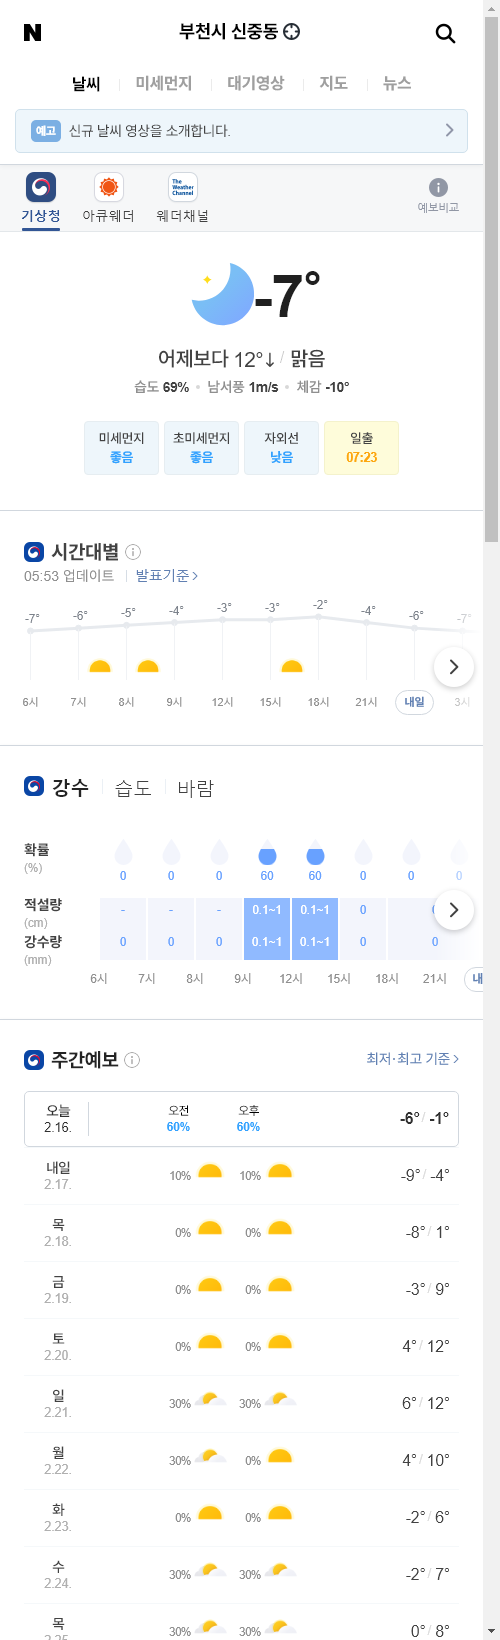
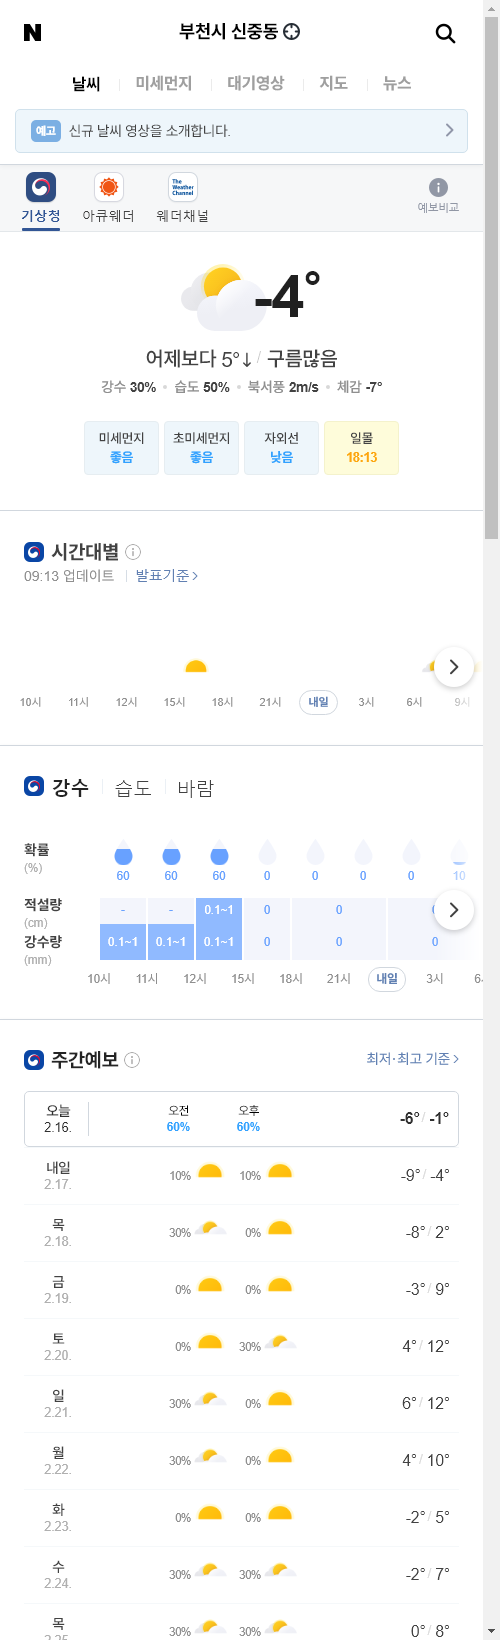
update result

diff --git a/README.md b/README.md
@@ -1,5 +1,5 @@
-##  2021-02-16 05:54:45   화요일 
-##### 날씨   -   어제보다 12° 낮아요맑음  
+##  2021-02-16 09:16:44   화요일 
+##### 날씨   -   어제보다 5° 낮아요구름많음  
 <center><img src="../img/naver_weather_week.png"></center>
 ----
 ----
@@ -23,7 +23,7 @@
 ##### 시장
 <table border="1" bordercolor="blue" align = "center" >
 <tr align = "right" > <td>Item</td><td>Price</td><td>Diff</td><td>Rate</td><td>Buy</td><td>Sell</td><td>...</td>  </tr>
-<tr align = "right" > <td>USD</td><td>1,102.0</td><td>-4.5</td><td><font size="3" color="blue">-0.41%</font></td><td><font size="3" color="orangered">1,110</font></td><td><font size="3" color="black">0</font></td><td>0</td>  </tr>
+<tr align = "right" > <td>USD</td><td>1,101.0</td><td>-1.5</td><td><font size="3" color="blue">-0.14%</font></td><td><font size="3" color="orangered">1,110</font></td><td><font size="3" color="black">0</font></td><td>0</td>  </tr>
 <tr align = "right" > <td>WTI</td><td>59.47</td><td>1.23</td><td><font size="3" color="red">2.11%</font></td><td><font size="3" color="black">29.0</font></td><td><font size="3" color="black">0</font></td><td>0</td>  </tr>
 <tr align = "right" > <td>GOLD</td><td>1,821.0</td><td>-3.3</td><td><font size="3" color="blue">-0.18%</font></td><td><font size="3" color="black">0</font></td><td><font size="3" color="black">0</font></td><td>0</td>  </tr>
 </table>
@@ -31,25 +31,25 @@
 ##### 주가
 <table border="1" bordercolor="blue" align = "center" >
 <tr align = "right" > <td>Item</td><td>Price</td><td>Diff</td><td>Rate</td><td>Purchased</td><td>Sell</td><td>Buy</td>  </tr>
-<tr align = "right" > <td>한국 전력</td><td>23,750</td><td>-200</td><td><font size="3" color="blue">-0.84%</font></td><td>25,720</td><td><font size="3" color="black">27,700</font></td><td><font size="3" color="black">20,700</font></td>  </tr>
-<tr align = "right" > <td>삼성엔지니어.</td><td>13,450</td><td>-50</td><td><font size="3" color="blue">-0.37%</font></td><td>18,935</td><td><font size="3" color="black">20,000</font></td><td><font size="3" color="black">8,000</font></td>  </tr>
-<tr align = "right" > <td>CJ CGV</td><td>27,400</td><td>300</td><td><font size="3" color="red">1.11%</font></td><td>34,895</td><td><font size="3" color="black">36,000</font></td><td><font size="3" color="black">0</font></td>  </tr>
-<tr align = "right" > <td>아모레퍼시픽</td><td>232,500</td><td>3,000</td><td><font size="3" color="red">1.31%</font></td><td>235,350</td><td><font size="3" color="black">240,000</font></td><td><font size="3" color="black">130,000</font></td>  </tr>
-<tr align = "right" > <td>한화</td><td>33,650</td><td>-150</td><td><font size="3" color="blue">-0.44%</font></td><td>25,550</td><td><font size="3" color="black">26,250</font></td><td><font size="3" color="black">26,250</font></td>  </tr>
-<tr align = "right" > <td>NAVER</td><td>385,500</td><td>19,000</td><td><font size="3" color="red">5.18%</font></td><td>147,200</td><td><font size="3" color="black">386,000</font></td><td><font size="3" color="black">286,000</font></td>  </tr>
-<tr align = "right" > <td>LG 화학우</td><td>478,500</td><td>7,000</td><td><font size="3" color="red">1.48%</font></td><td>202,490</td><td><font size="3" color="black">384,000</font></td><td><font size="3" color="black">384,000</font></td>  </tr>
-<tr align = "right" > <td>스튜디오드래.</td><td>99,900</td><td>1,200</td><td><font size="3" color="red">1.22%</font></td><td>81,243</td><td><font size="3" color="black">85,200</font></td><td><font size="3" color="black">85,200</font></td>  </tr>
-<tr align = "right" > <td>QV미국IT</td><td>27,000</td><td>70</td><td><font size="3" color="red">0.26%</font></td><td>0</td><td><font size="3" color="black">30,000</font></td><td><font size="3" color="black">20,000</font></td>  </tr>
-<tr align = "right" > <td>삼성 전자우</td><td>75,500</td><td>1,200</td><td><font size="3" color="red">1.62%</font></td><td>48,250</td><td><font size="3" color="black">56,000</font></td><td><font size="3" color="black">45,000</font></td>  </tr>
-<tr align = "right" > <td>LS</td><td>69,900</td><td>-600</td><td><font size="3" color="blue">-0.85%</font></td><td>71,400</td><td><font size="3" color="black">82,000</font></td><td><font size="3" color="black">60,000</font></td>  </tr>
-<tr align = "right" > <td>한화에어로스.</td><td>44,400</td><td>1,100</td><td><font size="3" color="red">2.54%</font></td><td>25,700</td><td><font size="3" color="black">30,000</font></td><td><font size="3" color="black">24,000</font></td>  </tr>
-<tr align = "right" > <td>카카오</td><td>502,000</td><td>12,500</td><td><font size="3" color="red">2.55%</font></td><td>405,500</td><td><font size="3" color="black">440,000</font></td><td><font size="3" color="black">400,000</font></td>  </tr>
-<tr align = "right" > <td>호텔 신라</td><td>81,700</td><td>-400</td><td><font size="3" color="blue">-0.49%</font></td><td>72,800</td><td><font size="3" color="black">100,000</font></td><td><font size="3" color="black">70,000</font></td>  </tr>
-<tr align = "right" > <td>S-Oil</td><td>88,700</td><td>6,000</td><td><font size="3" color="red">7.26%</font></td><td>62,842</td><td><font size="3" color="black">100,000</font></td><td><font size="3" color="black">50,000</font></td>  </tr>
-<tr align = "right" > <td>LG전자</td><td>165,000</td><td>-2,500</td><td><font size="3" color="blue">-1.49%</font></td><td>82,022</td><td><font size="3" color="black">100,000</font></td><td><font size="3" color="black">60,000</font></td>  </tr>
-<tr align = "right" > <td>지역난방공사</td><td>38,650</td><td>200</td><td><font size="3" color="red">0.52%</font></td><td>43,590</td><td><font size="3" color="black">60,000</font></td><td><font size="3" color="black">30,000</font></td>  </tr>
-<tr align = "right" > <td>KOEDX은행</td><td>6,425</td><td>5</td><td><font size="3" color="red">0.08%</font></td><td>5,178</td><td><font size="3" color="black">6,225</font></td><td><font size="3" color="black">6,225</font></td>  </tr>
-<tr align = "right" > <td>글로벌럭셔리</td><td>15,825</td><td>-345</td><td><font size="3" color="blue">-2.13%</font></td><td>15,260</td><td><font size="3" color="black">20,000</font></td><td><font size="3" color="black">10,000</font></td>  </tr>
-<tr align = "right" > <td>한국금융지주</td><td>91,700</td><td>5,100</td><td><font size="3" color="red">5.89%</font></td><td>0</td><td><font size="3" color="black">82,000</font></td><td><font size="3" color="black">60,000</font></td>  </tr>
+<tr align = "right" > <td>한국 전력</td><td>23,550</td><td>-200</td><td><font size="3" color="blue">-0.84%</font></td><td>25,720</td><td><font size="3" color="black">27,700</font></td><td><font size="3" color="black">20,700</font></td>  </tr>
+<tr align = "right" > <td>삼성엔지니어.</td><td>13,450</td><td>0</td><td><font size="3" color="black">0.0%</font></td><td>18,935</td><td><font size="3" color="black">20,000</font></td><td><font size="3" color="black">8,000</font></td>  </tr>
+<tr align = "right" > <td>CJ CGV</td><td>27,250</td><td>-150</td><td><font size="3" color="blue">-0.55%</font></td><td>34,895</td><td><font size="3" color="black">36,000</font></td><td><font size="3" color="black">0</font></td>  </tr>
+<tr align = "right" > <td>아모레퍼시픽</td><td>231,000</td><td>-1,500</td><td><font size="3" color="blue">-0.65%</font></td><td>235,350</td><td><font size="3" color="black">240,000</font></td><td><font size="3" color="black">130,000</font></td>  </tr>
+<tr align = "right" > <td>한화</td><td>34,200</td><td>550</td><td><font size="3" color="red">1.63%</font></td><td>25,550</td><td><font size="3" color="black">26,250</font></td><td><font size="3" color="black">26,250</font></td>  </tr>
+<tr align = "right" > <td>NAVER</td><td>400,000</td><td>14,500</td><td><font size="3" color="red">3.76%</font></td><td>147,200</td><td><font size="3" color="black">386,000</font></td><td><font size="3" color="black">286,000</font></td>  </tr>
+<tr align = "right" > <td>LG 화학우</td><td>475,500</td><td>-3,000</td><td><font size="3" color="blue">-0.63%</font></td><td>202,490</td><td><font size="3" color="black">384,000</font></td><td><font size="3" color="black">384,000</font></td>  </tr>
+<tr align = "right" > <td>스튜디오드래.</td><td>100,200</td><td>300</td><td><font size="3" color="red">0.3%</font></td><td>81,243</td><td><font size="3" color="black">85,200</font></td><td><font size="3" color="black">85,200</font></td>  </tr>
+<tr align = "right" > <td>QV미국IT</td><td>26,955</td><td>-45</td><td><font size="3" color="blue">-0.17%</font></td><td>0</td><td><font size="3" color="black">30,000</font></td><td><font size="3" color="black">20,000</font></td>  </tr>
+<tr align = "right" > <td>삼성 전자우</td><td>76,100</td><td>600</td><td><font size="3" color="red">0.79%</font></td><td>48,250</td><td><font size="3" color="black">56,000</font></td><td><font size="3" color="black">45,000</font></td>  </tr>
+<tr align = "right" > <td>LS</td><td>71,500</td><td>1,600</td><td><font size="3" color="red">2.29%</font></td><td>71,400</td><td><font size="3" color="black">82,000</font></td><td><font size="3" color="black">60,000</font></td>  </tr>
+<tr align = "right" > <td>한화에어로스.</td><td>44,350</td><td>-50</td><td><font size="3" color="blue">-0.11%</font></td><td>25,700</td><td><font size="3" color="black">30,000</font></td><td><font size="3" color="black">24,000</font></td>  </tr>
+<tr align = "right" > <td>카카오</td><td>503,000</td><td>1,000</td><td><font size="3" color="red">0.2%</font></td><td>405,500</td><td><font size="3" color="black">440,000</font></td><td><font size="3" color="black">400,000</font></td>  </tr>
+<tr align = "right" > <td>호텔 신라</td><td>81,600</td><td>-100</td><td><font size="3" color="blue">-0.12%</font></td><td>72,800</td><td><font size="3" color="black">100,000</font></td><td><font size="3" color="black">70,000</font></td>  </tr>
+<tr align = "right" > <td>S-Oil</td><td>87,900</td><td>-800</td><td><font size="3" color="blue">-0.9%</font></td><td>62,842</td><td><font size="3" color="black">100,000</font></td><td><font size="3" color="black">50,000</font></td>  </tr>
+<tr align = "right" > <td>LG전자</td><td>170,000</td><td>5,000</td><td><font size="3" color="red">3.03%</font></td><td>82,022</td><td><font size="3" color="black">100,000</font></td><td><font size="3" color="black">60,000</font></td>  </tr>
+<tr align = "right" > <td>지역난방공사</td><td>38,900</td><td>250</td><td><font size="3" color="red">0.65%</font></td><td>43,590</td><td><font size="3" color="black">60,000</font></td><td><font size="3" color="black">30,000</font></td>  </tr>
+<tr align = "right" > <td>KOEDX은행</td><td>6,355</td><td>-70</td><td><font size="3" color="blue">-1.09%</font></td><td>5,178</td><td><font size="3" color="black">6,225</font></td><td><font size="3" color="black">6,225</font></td>  </tr>
+<tr align = "right" > <td>글로벌럭셔리</td><td>15,950</td><td>125</td><td><font size="3" color="red">0.79%</font></td><td>15,260</td><td><font size="3" color="black">20,000</font></td><td><font size="3" color="black">10,000</font></td>  </tr>
+<tr align = "right" > <td>한국금융지주</td><td>90,700</td><td>-1,000</td><td><font size="3" color="blue">-1.09%</font></td><td>0</td><td><font size="3" color="black">82,000</font></td><td><font size="3" color="black">60,000</font></td>  </tr>
 </table>
 ----
